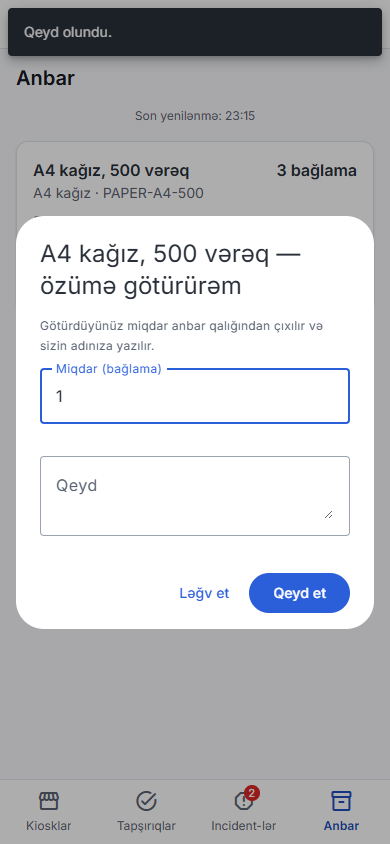
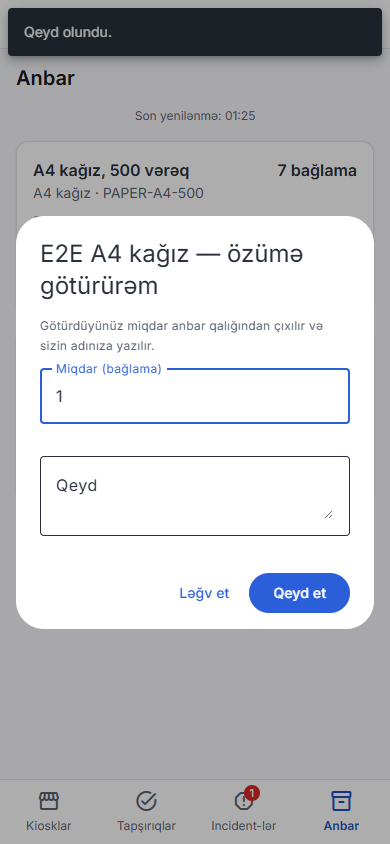
docs: T-266 done with its evidence; the two e2e checks leave no trace (how, and what they do not touch)

diff --git a/docs/TASKS.md b/docs/TASKS.md
@@ -289,7 +289,7 @@ Statuslar: `Açıq`, `İcrada`, `Tamamlandı`, `Ləğv edildi (səbəb)`, `Təxi
 | T-263 | 2026-10-13 | 7A | Tapıntı (M7, real stack — operator panelinin "Tapşırıqlar" səhifəsi): cihazı ayrılmış kioskun (KSK-9007, `NotActivated`) `Critical` kağız alert-i və operatora təyin olunmuş `RefillPaper` tapşırığı 10 saat sonra da açıq qalır — operator cihazı olmayan kioska kağız doldurmağa göndərilir. Kök səbəb (M6, T-210): `EvaluateAllSuppliesCommand` yalnız cihazı olan, istismardakı kioskları gəzir; "kiosk artıq xidmət göstərmir — alert-lərini bağla" budağı isə məhz belə olmayan kiosklar üçündür və süpürgə onu heç vaxt çağırmır (yalnız sərf hərəkəti hadisəsi çağıra bilərdi, cihazsız kioskda isə hərəkət olmur). Düzəliş: süpürgə aktiv alert-i və ya bitməmiş avtomatik tapşırığı olan kioskları da gəzsin; istismardan çıxmış kioskun başlanmamış avtomatik tapşırığı (qayda və proqnoz mənbəli) düzgün səbəblə ləğv olunsun; test + real stack (KSK-9007) | Tamamlandı | **Sübut (2026-10-13):** commit `13419b1` (`SupplyEvaluation.cs`: süpürgə aktiv alert-i və ya başlanmamış sistem tapşırığı olan kioskları da gəzir; `serviceTasks.reason.kioskOutOfService`). Test: `A_kiosk_that_loses_its_device_has_its_alert_and_its_unstarted_task_ended_by_the_sweep` (`SupplyFlowTests` 16/16); CI run 38450361443 yaşıl. Real stack: `api` yenidən quruldu, növbəti süpürgədən sonra KSK-9007-nin `Critical` kağız alert-i bağlandı, `RefillPaper` tapşırığı `Cancelled` oldu ("Kioskun cihazı ayrılıb və ya kiosk söndürülüb; tapşırığa ehtiyac qalmadı."), operator panelinin "Tapşırıqlar" səhifəsindən çıxdı. Operatorun başladığı tapşırığa toxunulmur. Qərar: `docs/DECISIONS.md` 2026-10-13. |
 | T-264 | 2026-10-14 | 7A | Layihə sahibi (M7 qəbul olundu; M8-dən əvvəl, bənd 1): **sayğacı təyin edilməmiş kiosk sifarişi rədd etməsin** (T-258-dəki qərar dəyişdi). Sifariş normal qəbul olunur, sayğac "unknown" qalır; admin və operator kiosk kartında "Sayğac təyin edilməyib" göstərilir; aktivləşmədən 24 saat sonra hələ də təyin olunmayıbsa `Warning` incident açılır (email yox, yalnız panel), sayğac yazılanda bağlanır. Test + real stack; `DECISIONS.md` yenilənir | Tamamlandı | **Sübut (2026-10-14):** commit `222bd64`. Testlər: `SupplyFlowTests` — `A_kiosk_with_a_counter_nobody_set_takes_orders_and_a_day_later_the_panel_is_reminded_once`, `The_reminder_about_an_unset_counter_closes_when_the_counter_is_set` (SupplyFlow + PrintJob dəstləri 34/34), Application 94, Domain 543; admin `kiosks.component.spec.ts` 9/9, lint, `i18n-check`. Real stack: `new-kiosk.mjs` ilə KSK-9008 → siyahıda, idarə panelində və operator kartında "Sayğac təyin edilməyib"; aktivləşmə vaxtı 25 saat geri çəkildi → süpürgə `Medium` ("Orta") incident açdı, Mailpit-də bu kiosk haqqında məktub yoxdur; ilk doldurma (400 vərəq) → incident `paperCounted` ilə özü bağlandı; kiosk sonda ayrıldı. Ekran görüntüləri: `docs/screenshots/step-7/t264/01…04`. Sifarişin real stack-də sayğacsız kioskda qəbulu ayrıca sınanmadı (dev alətinin yaratdığı cihazın açarı atılır) — bunu inteqrasiya testi real API və Mongo üzərində yoxlayır. Qərarlar: `docs/DECISIONS.md` 2026-10-14 (iki sətir; "Warning" = `Medium`). |
 | T-265 | 2026-10-14 | 7A | Layihə sahibi (bənd 2): operator panelinə **"Kiosk aktivləşdir (QR)"** ekranı (plan 8B) — operator quraşdırma zamanı kiosk ekranındakı kodu / QR-ı oxudub aktivləşdirir; yalnız öz əhatəsindəki kioskları aktivləşdirə bilir; mövcud provisioning axını işlədilir, yeni mexanizm yaradılmır. Real stack e2e + telefon enində screenshot | Tamamlandı | **Sübut (2026-10-14):** commit-lər `914bf6d` (backend: `newKiosk` üçün `kiosks.create`, QR-dakı kodun yoxlanması), `c167a28` (ekran `/operator/activate`, `qr-scanner.ts`, `e2e/activate.mjs`). Testlər: `DeviceActivationTests` 27/27 (yeniləri: `An_operator_activates_a_device_onto_a_kiosk_of_their_own_and_onto_no_other` — əhatədən kənar kiosk 403, yeni kiosk 403, öz kiosku 200; `A_scanned_qr_finds_its_device_only_with_the_code_the_screen_showed`); admin `operator-activate.spec.ts` 10/10, `operator-pages.spec.ts` 12/12, lint, `i18n-check` (1621 açar), ikon dəsti, render testi 6/6 (390 px daxil). Real stack (390 px): `node e2e/activate.mjs` 9/9 — səhv kod → izahlı xəta; düzgün kod → cihaz kartı → kiosk seçimi → "Aktivləşdir" → kioskun səhifəsi; serverdə kiosk `Online`, bağlanan cihaz kodu yazılan cihazdır; kod ikinci dəfə işləmir; sonda cihaz ayrılır. Ekran görüntüləri: `docs/screenshots/step-7/t265/01…06`. **Yoxlanmayıb:** QR-ın kamera ilə oxunması — Windows-dakı masaüstü brauzerdə `BarcodeDetector` yoxdur, ona görə yalnız telefonda sınana bilər (MT-09). Qərarlar: `docs/DECISIONS.md` 2026-10-14 (üç sətir; biri planla fərqdir — brauzerin QR oxuması). |
-| T-266 | 2026-10-14 | 7A | Layihə sahibi (bənd 3): `admin/e2e/operator.mjs` **təkrarlana bilən olsun** — başlamazdan əvvəl öz test məlumatını yaradır, sonda silir / qaytarır, dev məlumatında iz qalmır. Köhnə test izləri (KSK-9002-nin "Cleaning" tapşırıqları, toner dəyişim qeydləri, anbar hərəkətləri) təmizlənir | Açıq | |
+| T-266 | 2026-10-14 | 7A | Layihə sahibi (bənd 3): `admin/e2e/operator.mjs` **təkrarlana bilən olsun** — başlamazdan əvvəl öz test məlumatını yaradır, sonda silir / qaytarır, dev məlumatında iz qalmır. Köhnə test izləri (KSK-9002-nin "Cleaning" tapşırıqları, toner dəyişim qeydləri, anbar hərəkətləri) təmizlənir | Tamamlandı | **Sübut (2026-10-14):** commit `8b07840` (`admin/e2e/dev-data.mjs`, `operator.mjs`, `activate.mjs`). Real stack: `node e2e/operator.mjs` üç dəfə dalbadal — hər dəfə 13/13, sonuncu yoxlama "nothing of the check is left" (öz kiosku və öz anbar məhsulu silinib); `node e2e/activate.mjs` iki dəfə — 9/9. Aralarında `PAPER-A4-500` qalığı və KSK-9002 dəyişmədi. **Köhnə izlər silindi** (dev bazası, bir dəfəlik skript, əvvəl quru sayma): KSK-9002-nin 10 "Cleaning" tapşırığı, 16 sərf qeydi (9 doldurma, 1 sayma, 5 "Toner:Black" dəyişimi, 1 A3 doldurma), anbarın 2026-10-13 18:20 UTC-dən sonrakı 23 hərəkəti; A4 sayğacı 499-a və son doldurma tarixi 2026-10-12-yə, anbar qalığı 7-yə qaytarıldı; əl ilə yaradılmış test kioskları KSK-9007, KSK-9008, KSK-9009 cihazları, tapşırığı, alert-i və incident-ləri ilə birlikdə silindi (cəmi: 52 status keçidi, 11 tapşırıq, 18 sərf qeydi, 23 anbar hərəkəti, 2 incident, 5 cihaz, 3 kiosk). Audit loquna toxunulmadı. Təlimat: `docs/DEV_ENVIRONMENT.md` 7o. |
 | T-267 | 2026-10-14 | 7A | Layihə sahibi (bənd 4): `docs/MANUAL_TESTS.md` MT-09-a operator PWA-nı telefonda `adb reverse tcp:8080` ilə yoxlama addımları (S24; layihə sahibi sonda özü edəcək) | Açıq | |
 | T-268 | 2026-10-14 | 7A | Layihə sahibi (bənd 5, tapıntı): **mobil tətbiqdən çıxış edəndən sonra da push bildirişləri gəlir** — kök səbəb tapılsın və düzəldilsin; test | Açıq | |
 | T-269 | 2026-10-14 | 7A | Layihə sahibi (bənd 6, tapıntı): **mobil tətbiqdə giriş edib tətbiqi bağlayıb yenidən açanda yenə giriş istəyir** — sessiya saxlanılmalıdır; kök səbəb + test | Açıq | |
